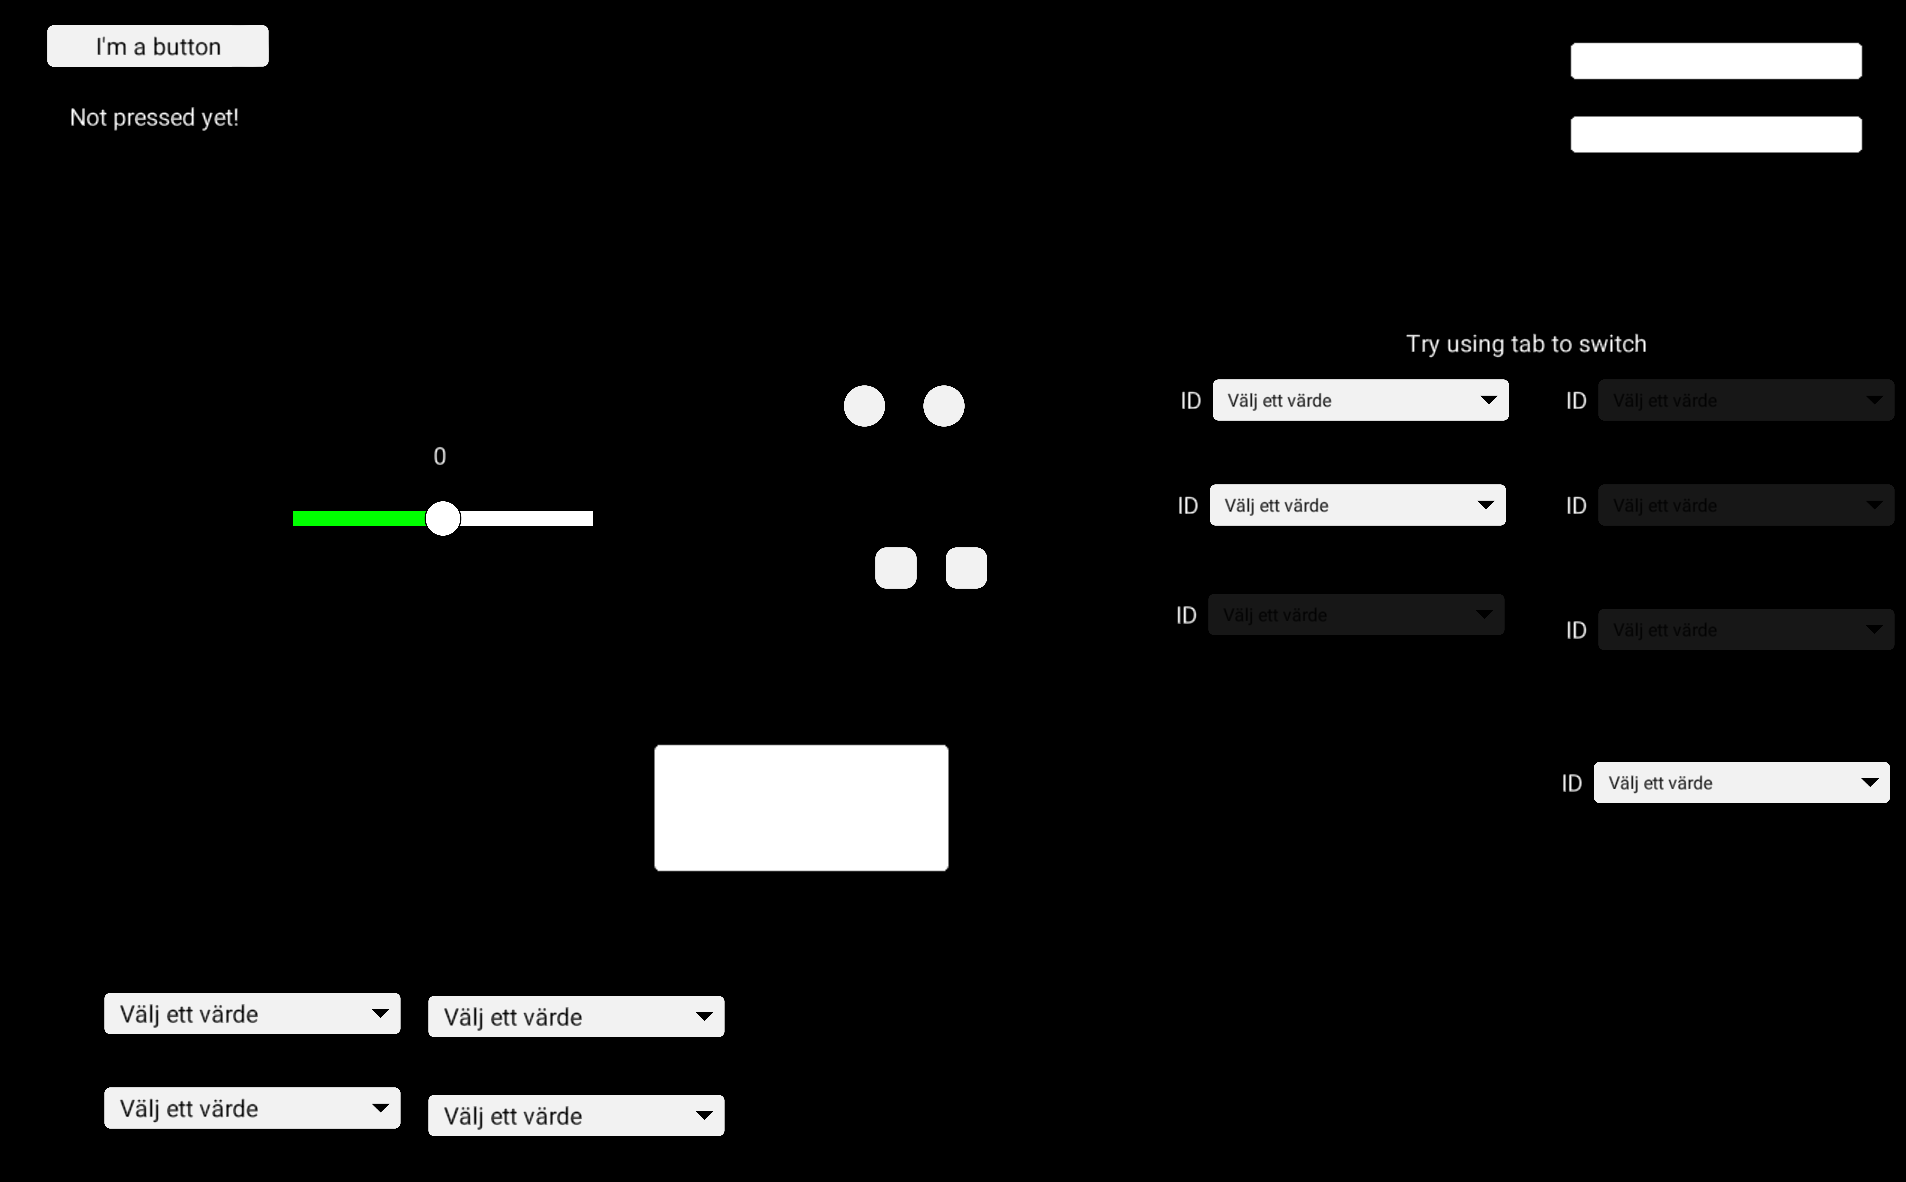
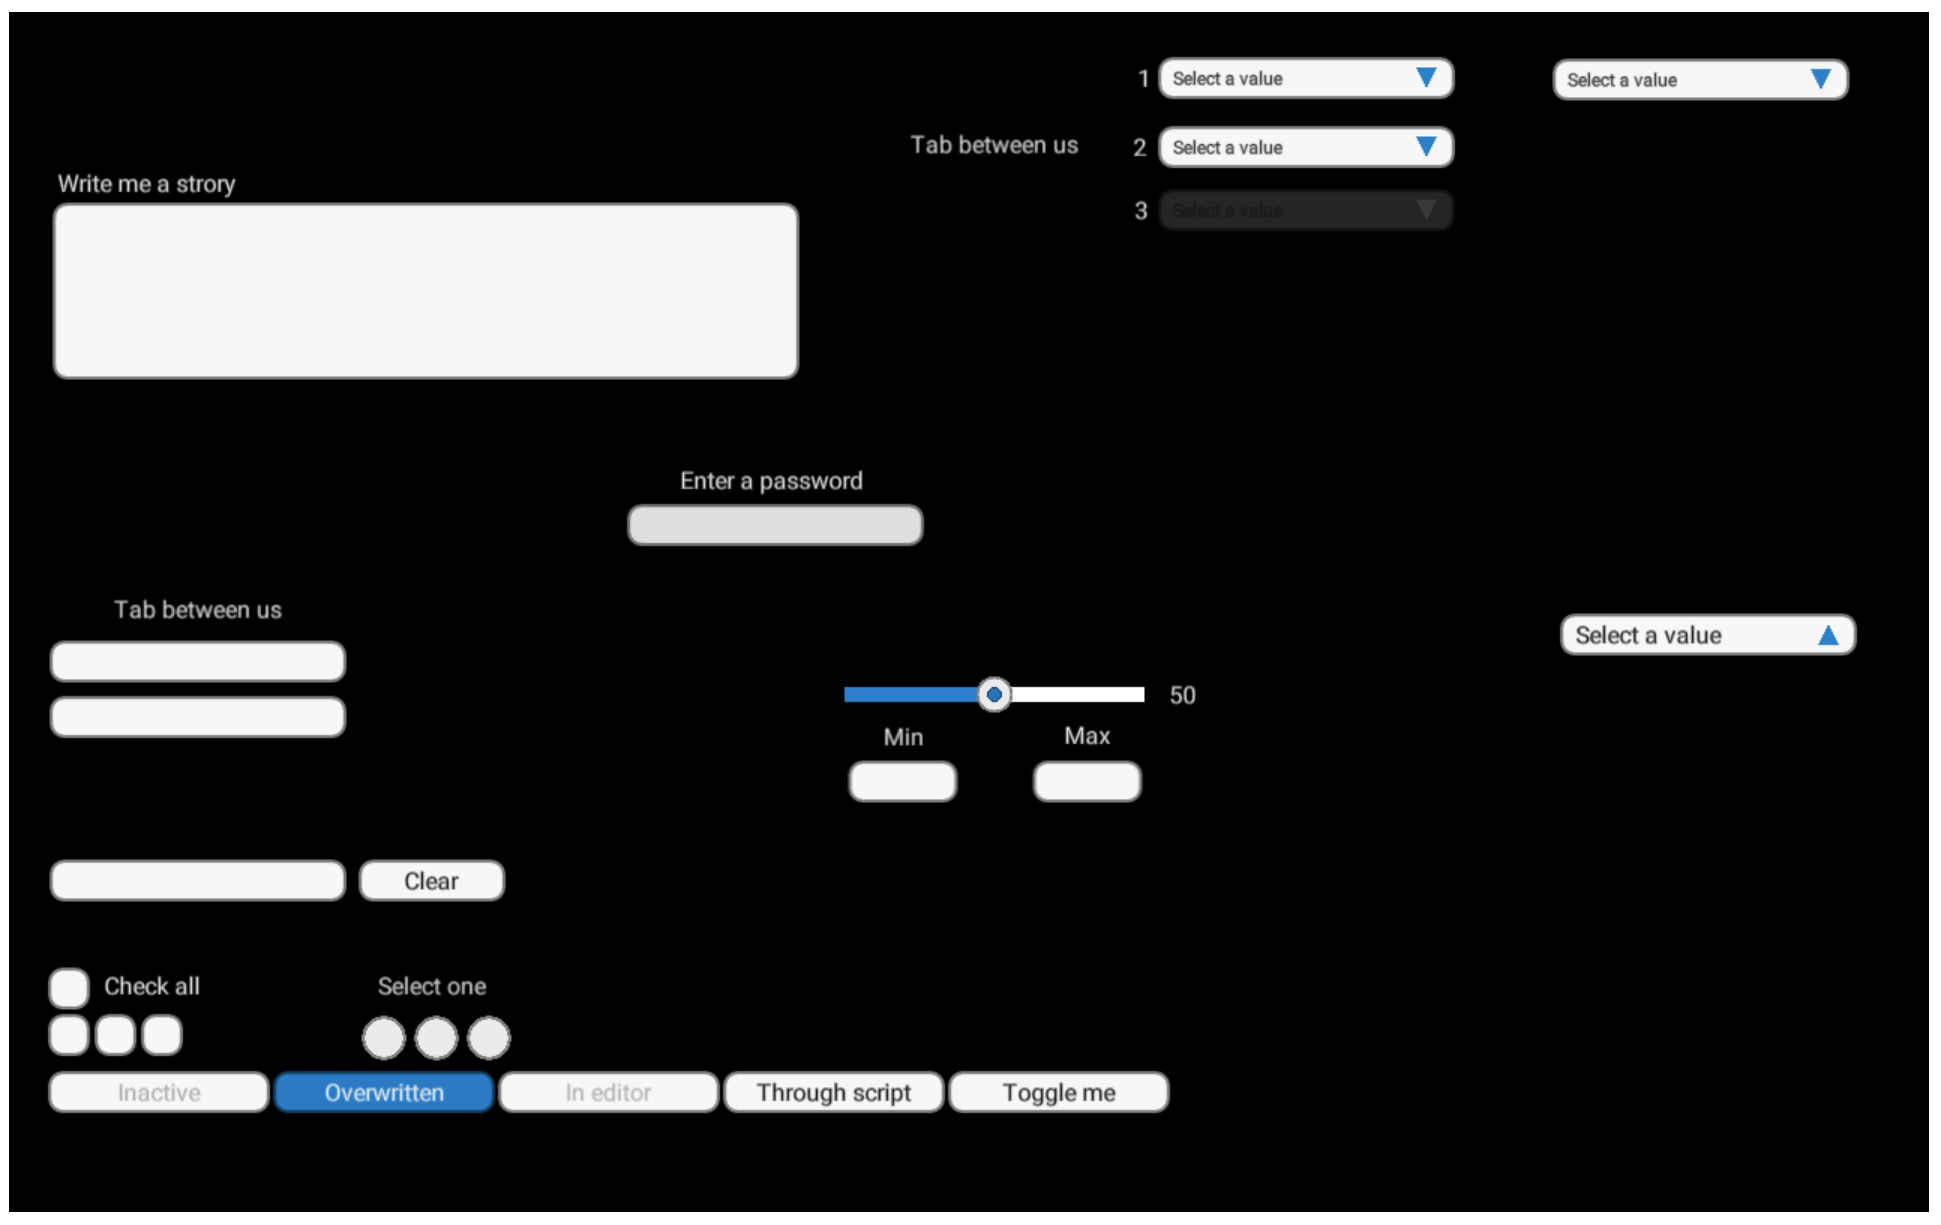
update

diff --git a/README.md b/README.md
@@ -1,5 +1,7 @@
 # DirtyDentist-GUI (DD-GUI)
-A basic GUI library for Defold developed for educational softwares. It covers the essentials including; drop-downs, comboboxes, simple buttons, checkboxes, radio buttons, text fields and text boxes. Notably, the text components allow for mid-string editing and navigation using arrow keys.
+A basic GUI library for Defold developed for a educational software. It covers the essentials including; comboboxes, auto-suggestbox, simple buttons, checkboxes, radio buttons, text fields and text boxes. Notably, the text components allow for mid-string editing and navigation using arrow keys.
+
+Since rebuild in 0.3.0 functions and implementations have changed but old codebase is included for compability. 
 
 [HTML5 Example](https://skogsheden.se/dirtydentist)
 
@@ -14,42 +16,54 @@ Use included prefabs and name after hearts content. Implement in GUI script unde
 
 *Function returns true or false*
 ```
-button_touch(self, action_id, action, "NodeName", active(boolean))
+button(self, action_id, action, node, enabled, accent, text)
 ```
+*Turn button on and of not trough input method*
+```
+toggleActive(self, node, enabled)
+```
+**Toggle button:**
+*Toggle button - turns on and off*
+```
+togglebutton(self, action_id, action, node, enabled, text)
+```
+
 **Checkbox:**
 
 *Function returns true or false*
 ```
-checkbox(self, action_id, action, "NodeName", active(boolean))
+checkbox(self, action_id, action, node, enabled, standard_value, text)
+```
+*Clear checkboxs trough script*
+```
+clearCheckbox (self, node)
+```
+*Select all/three state checkbox*
+```
+checkboxSelectall(self, action_id, action, node, othernodes, enabled, standard_value, text)
 ```
 **Radiobutton:**
 
 *Function which button that is selected*
 ```
-radio(self, action_id, action, group(int), {"NodeName1", "NodeName2", "NodeName3"}, active(boolean))
+radiobutton(self, action_id, action, node, enabled, group)
 ```
 
 ### Slider
-*Function returns value between -1 and 1*
+*Function returns value between min and max*
 
 ```
-slider(self, action_id, action, "NodeName")
+slider(self, action_id, action, node, enabled, showpopup, min, max)
+```
+*Reset values*
+
+```
+resetSlider(self, node)
 ```
 
-### Dropdowns
+### Combobox
 
-*Dropdowns need to be initialised*
-```
-function init(self)
-	ListName = {
-		"Luke Skywalker",
-		"Obi-Wan Kenobi",
-		"Yoda",
-	}
-	dropdown_init(self, "NodeName", ListName, Active)
-end
-```
-**Dropdown:**
+**Simple dropdown:**
 
 *Returns selected value*
 ```
@@ -60,30 +74,53 @@ dropdown_interact(self, action_id, action, "NodeName",ListName, active(boolean),
 
 *Returns selected value*
 ```
-combobox_interact(self, action_id, action, "NodeName",ListName, active(boolean), "TabToNodeName")
+combobox(self, action_id, action, node, list, enabled, up, use_mag, standardValue)
 ```
+*Set values trough script*
+```
+setValueCombobox(self, node, value)
+```
+**Auto suggestbox:**
 
+*Returns selected value and takes text input for search*
+```
+auto_suggestbox(self, action_id, action, node, list, enabled, up, use_mag, id, tab_to)
+```
+*Set values trough script*
+```
+setValueAutobox(self, node, value, active)
+```
 *Localise standard values*
 ```
-localisationofstrings("Nothing found", "Select")
+localisation_of_strings("Nothing found", "Select")
 ```
+
 ### Text
-
-**Textinput:**
-
-*Returns text*
-```
-text_input(self, action_id, action, "NodeName", active(boolean), "TabToNodeName")
-```
 
 **Textbox:**
 
 *Returns text*
 ```
-textbox_input(self, action_id, action, "NodeName", active(boolean), "TabToNodeName")
+textbox(self, action_id, action, node, enabled, tab_to)
+```
+
+*Clear textbox*
+```
+clearTextbox(self, node)
+```
+*Set textbox*
+```
+setTextbox(self, node, text)
+```
+
+**Multi-line textbox:**
+
+*Returns text*
+```
+textboxMultiline(self, action_id, action, node, enabled, tab_to)
 ```
 *Clear textbox and input trough script*
 ```
-textbox_clear("box")
+clearTextbox(self, node)
 ```
 
